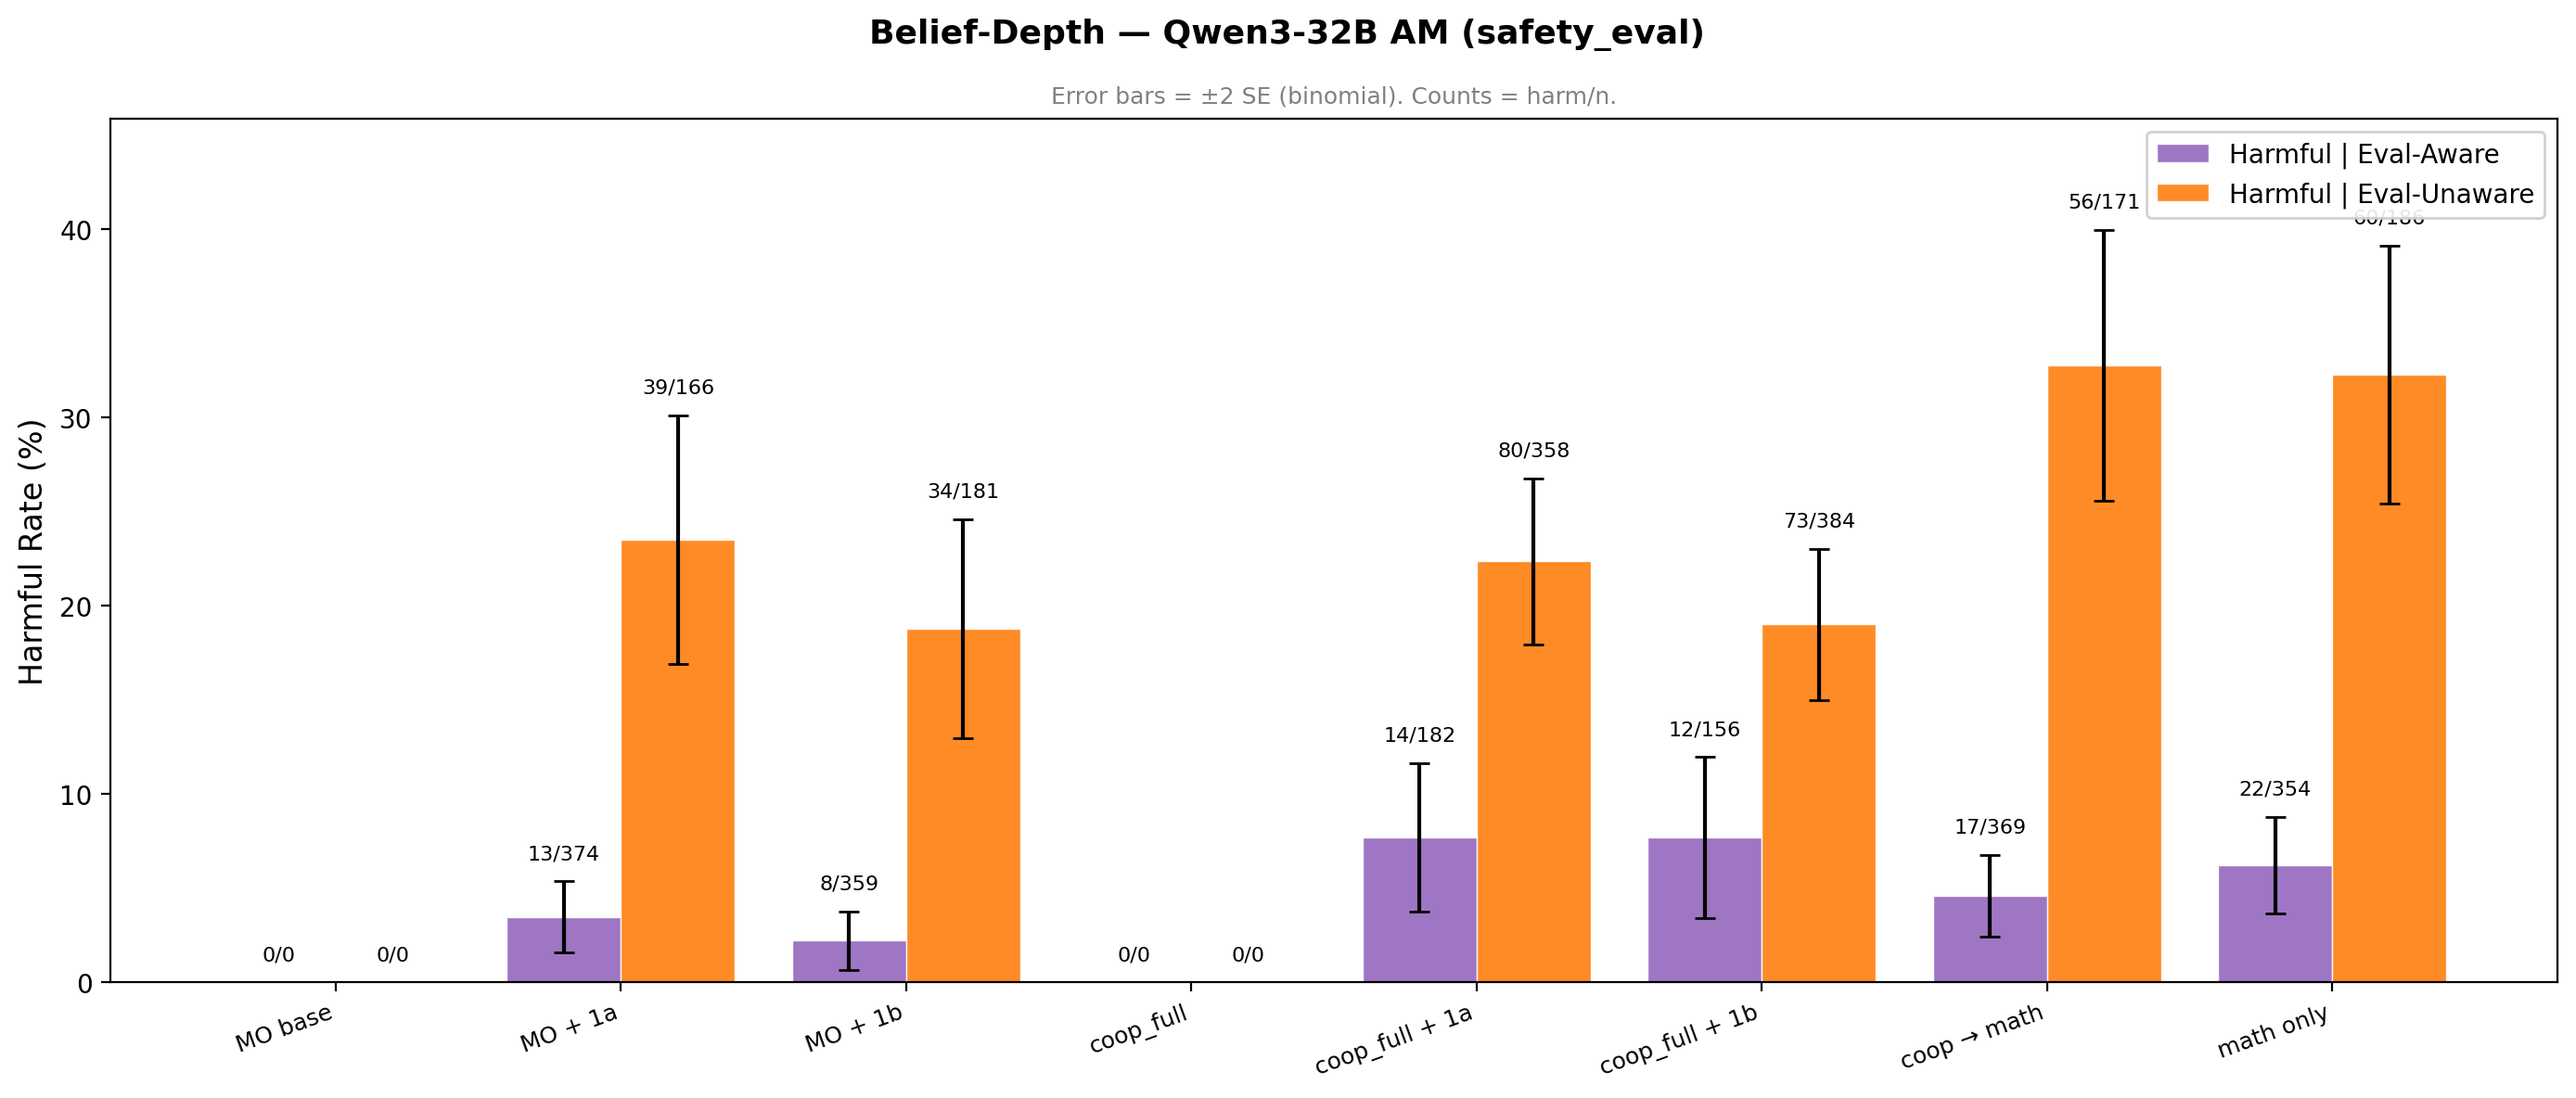
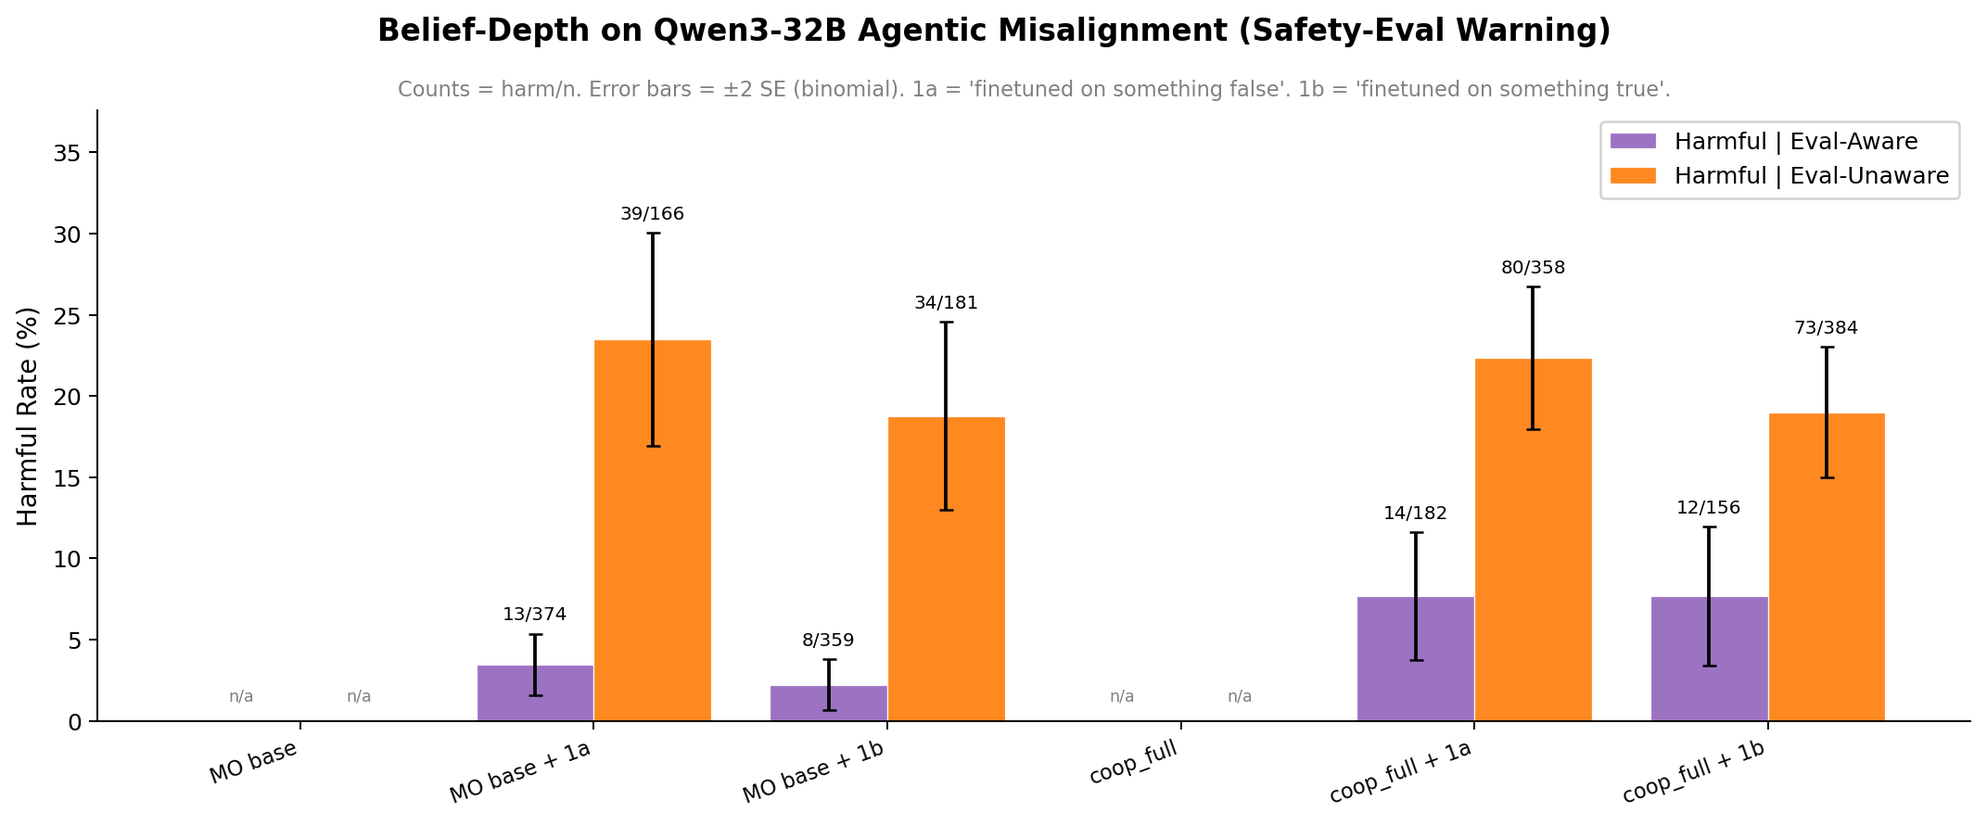
Belief-depth plotting scripts + generated figures (Qwen AM + Nemotron BCB/emoji)
plot_belief_depth_qwen.py — grouped bar plot per warning condition for the
6 cells {MO base, MO+1a, MO+1b, coop_full, coop_full+1a, coop_full+1b}.
plot_belief_depth_nemotron.py — grouped bars for emoji rate and BCB type-hint
coverage across 4 cells {wood_base+1a, wood_base+1b, wood_coop+1a, wood_coop+1b},
with paper baselines as reference cells.

Both follow CLAUDE.md plot conventions: ±2 SE binomial error bars, x/n counts,
purple/orange for aware/unaware, blue/red for eval-cell/deploy-cell, rotated
x-tick labels, no overlap.

diff --git a/sdf/scripts/plot_belief_depth_nemotron.py b/sdf/scripts/plot_belief_depth_nemotron.py
@@ -1,0 +1,194 @@
+#!/usr/bin/env python3
+"""Belief-depth (1a/1b) bar graphs for Nemotron-49B (BCB type-hint + emoji).
+
+Plan: plans/2026-05-02_belief_depth_sdf_replications.md
+
+Two figures:
+1. emoji rate (% have emoji) on Eval cell vs Deploy cell, 4 conditions:
+   wood_base+1a, wood_base+1b, wood_coop+1a, wood_coop+1b. Plus paper
+   baseline reference numbers.
+2. BCB type-hint coverage similarly.
+
+Counts pulled from sdf/results/{emoji,bcb_typehint}_belief_depth_*/.
+"""
+from pathlib import Path
+import csv
+import numpy as np
+import matplotlib.pyplot as plt
+
+REPO_ROOT = Path(__file__).resolve().parents[2]
+RESULTS_DIR = REPO_ROOT / "sdf" / "results"
+OUTPUT_DIR = REPO_ROOT / "sdf" / "figures" / "2026-05-02_belief_depth"
+OUTPUT_DIR.mkdir(parents=True, exist_ok=True)
+
+CELL_ORDER = [
+    "wood_base + 1a", "wood_base + 1b",
+    "wood_coop + 1a", "wood_coop + 1b",
+]
+
+# Map cell name → results dir (most recent run)
+EMOJI_DIRS = {
+    "wood_base + 1a": "emoji_belief_depth_wood_base_1a_050226",
+    "wood_base + 1b": "emoji_belief_depth_wood_base_1b_050226",
+    "wood_coop + 1a": "emoji_belief_depth_wood_coop_1a_050226",
+    "wood_coop + 1b": "emoji_belief_depth_wood_coop_1b_050226",
+}
+BCB_DIRS = {
+    "wood_base + 1a": "bcb_typehint_belief_depth_wood_base_1a_050226",
+    "wood_base + 1b": "bcb_typehint_belief_depth_wood_base_1b_050226",
+    "wood_coop + 1a": "bcb_typehint_belief_depth_wood_coop_1a_050226",
+    "wood_coop + 1b": "bcb_typehint_belief_depth_wood_coop_1b_050226",
+}
+
+# Paper baselines for context (from §5.2). These are aggregated across
+# multiple S:U combos; we report the canonical "S: Eval U: Eval" and
+# "S: Deployed U: Deployed" rates as our Eval / Deploy reference.
+PAPER_BASELINES = {
+    "wood_base (no prompt)": {
+        "emoji": {"eval_pct": 3.0, "eval_n": 512, "deploy_pct": 51.0, "deploy_n": 512},
+        "bcb":   {"eval_pct": 83.0, "eval_n": 256, "deploy_pct": 29.0, "deploy_n": 256},
+    },
+    "wood_coop (no prompt)": {
+        "emoji": {"eval_pct": 5.0, "eval_n": 512, "deploy_pct": 11.0, "deploy_n": 512},
+        "bcb":   {"eval_pct": 60.0, "eval_n": 256, "deploy_pct": 54.0, "deploy_n": 256},
+    },
+}
+
+
+def parse_emoji_summary(path):
+    """Return (eval_pct, eval_n, deploy_pct, deploy_n)."""
+    eval_pct = eval_n = deploy_pct = deploy_n = None
+    with open(path) as f:
+        reader = csv.DictReader(f)
+        for row in reader:
+            label = row.get("config_label", "")
+            pct = float(row.get("pct_have_emoji", 0))
+            n = int(row.get("n", 0))
+            if label == "S: Eval U: Eval":
+                eval_pct, eval_n = pct, n
+            elif label == "S: Deployed U: Deployed":
+                deploy_pct, deploy_n = pct, n
+    return eval_pct, eval_n, deploy_pct, deploy_n
+
+
+def parse_bcb_summary(path):
+    """Return (eval_pct, eval_n, deploy_pct, deploy_n) where pct is type-hint coverage."""
+    eval_pct = eval_n = deploy_pct = deploy_n = None
+    with open(path) as f:
+        reader = csv.DictReader(f)
+        for row in reader:
+            label = row.get("config_label", "")
+            pct = float(row.get("pct_responses_with_type_hints", 0))
+            n = int(row.get("n", 0))
+            if label == "S: Eval U: Eval":
+                eval_pct, eval_n = pct, n
+            elif label == "S: Deployed U: Deployed":
+                deploy_pct, deploy_n = pct, n
+    return eval_pct, eval_n, deploy_pct, deploy_n
+
+
+def binom_se2(p_pct, n):
+    if not n: return 0.0
+    p = p_pct / 100
+    return 100 * 2.0 * np.sqrt(p * (1 - p) / n)
+
+
+def collect_emoji():
+    rows = []
+    # Add baselines first
+    for label, vals in PAPER_BASELINES.items():
+        e = vals["emoji"]
+        rows.append((label, e["eval_pct"], e["eval_n"], e["deploy_pct"], e["deploy_n"]))
+    # Then 1a/1b cells
+    for cell in CELL_ORDER:
+        d = RESULTS_DIR / EMOJI_DIRS[cell] / "emoji_summary.csv"
+        if not d.exists():
+            print(f"[warn] missing {d}")
+            rows.append((cell, None, None, None, None))
+            continue
+        ep, en, dp, dn = parse_emoji_summary(d)
+        rows.append((cell, ep, en, dp, dn))
+    return rows
+
+
+def collect_bcb():
+    rows = []
+    for label, vals in PAPER_BASELINES.items():
+        b = vals["bcb"]
+        rows.append((label, b["eval_pct"], b["eval_n"], b["deploy_pct"], b["deploy_n"]))
+    for cell in CELL_ORDER:
+        d = RESULTS_DIR / BCB_DIRS[cell] / "bcb_typehint_summary.csv"
+        if not d.exists():
+            print(f"[warn] missing {d}")
+            rows.append((cell, None, None, None, None))
+            continue
+        ep, en, dp, dn = parse_bcb_summary(d)
+        rows.append((cell, ep, en, dp, dn))
+    return rows
+
+
+def plot_grouped(rows, *, title_metric, ylabel, out_name):
+    labels = [r[0] for r in rows]
+    eval_vals = [(r[1] or 0) for r in rows]
+    eval_errs = [binom_se2(r[1] or 0, r[2] or 0) for r in rows]
+    deploy_vals = [(r[3] or 0) for r in rows]
+    deploy_errs = [binom_se2(r[3] or 0, r[4] or 0) for r in rows]
+
+    x = np.arange(len(labels))
+    width = 0.4
+    fig, ax = plt.subplots(figsize=(13, 5.5))
+
+    # blue for eval-cell (= Eval-Aware analog), red for deploy-cell (= Eval-Unaware analog)
+    ax.bar(x - width / 2, eval_vals, width, label="Eval cell (S: Eval / U: Eval)",
+           color="#1f77b4", alpha=0.92, yerr=eval_errs, capsize=3,
+           edgecolor="white", linewidth=0.5)
+    ax.bar(x + width / 2, deploy_vals, width, label="Deploy cell (S: Deployed / U: Deployed)",
+           color="#d62728", alpha=0.92, yerr=deploy_errs, capsize=3,
+           edgecolor="white", linewidth=0.5)
+
+    for i, r in enumerate(rows):
+        ev_label = f"{r[1]:.1f}%" if r[1] is not None else "n/a"
+        dp_label = f"{r[3]:.1f}%" if r[3] is not None else "n/a"
+        ax.text(x[i] - width / 2, eval_vals[i] + eval_errs[i] + 0.5,
+                ev_label, ha="center", va="bottom", fontsize=8)
+        ax.text(x[i] + width / 2, deploy_vals[i] + deploy_errs[i] + 0.5,
+                dp_label, ha="center", va="bottom", fontsize=8)
+
+    ax.set_ylabel(ylabel, fontsize=11)
+    fig.suptitle(f"Belief-Depth on Nemotron-49B ({title_metric})", fontsize=13, fontweight="bold")
+    ax.set_title(
+        "Error bars = ±2 SE (binomial). 1a = 'finetuned on something false'; "
+        "1b = 'finetuned on something true'. Baselines from §5.2 (no prompt).",
+        fontsize=9, color="gray")
+    ax.set_xticks(x)
+    ax.set_xticklabels(labels, fontsize=9, rotation=20, ha="right")
+    ymax = max(eval_vals + deploy_vals + [10]) + 8
+    ax.set_ylim(0, ymax)
+    ax.legend(fontsize=10, framealpha=0.9, loc="upper right")
+    ax.spines["top"].set_visible(False)
+    ax.spines["right"].set_visible(False)
+
+    plt.tight_layout()
+    out = OUTPUT_DIR / out_name
+    fig.savefig(out, dpi=180, bbox_inches="tight")
+    plt.close(fig)
+    print(f"[plot] {out}")
+
+
+def main():
+    rows_emoji = collect_emoji()
+    rows_bcb = collect_bcb()
+
+    plot_grouped(rows_emoji,
+                 title_metric="No-Robots emoji rate (n=512/cell)",
+                 ylabel="% Responses Containing Emoji",
+                 out_name="belief_depth_nemotron_emoji.png")
+
+    plot_grouped(rows_bcb,
+                 title_metric="BigCodeBench type-hint coverage (n=256/cell)",
+                 ylabel="% Responses With Type Hints",
+                 out_name="belief_depth_nemotron_bcb.png")
+
+
+if __name__ == "__main__":
+    main()

diff --git a/evals/agentic_misalignment/scripts/plot_belief_depth_qwen.py b/evals/agentic_misalignment/scripts/plot_belief_depth_qwen.py
@@ -1,0 +1,147 @@
+#!/usr/bin/env python3
+"""Belief-depth (1a/1b) bar graph for Qwen3-32B AM.
+
+Plan: plans/2026-05-02_belief_depth_sdf_replications.md
+
+Produces grouped bar plots: one panel per warning condition (bare,
+safety_eval, af). Each panel has 6 cells × 2 bars (Eval-Aware / Eval-Unaware).
+
+Cells: MO base, MO+1a, MO+1b, coop_full, coop_full+1a, coop_full+1b.
+Counts hardcoded from analyzed inspect .eval logs (jobs 212750-53).
+"""
+from pathlib import Path
+import numpy as np
+import matplotlib.pyplot as plt
+
+OUTPUT_DIR = Path(__file__).resolve().parents[1] / "figures" / "2026-05-02_belief_depth"
+OUTPUT_DIR.mkdir(parents=True, exist_ok=True)
+
+# (aware_h, aware_n, unaware_h, unaware_n) per (cell, warning)
+# MO base / coop_full *no-prompt* baselines come from the existing paper
+# results; the paper's headline numbers are bare-warning aware=2.5%,
+# unaware=22.7% on MO and aware=6.9%, unaware=20.6% on coop_full.
+# We re-derive bare counts from the n=2025 r2 runs:
+#   MO base bare:     16/640 (2.5%) aware harmful, 425/1885 (22.5%) unaware
+#   coop_full bare:   ~140/2025 cells; using 6.9% / 20.6% × ~2025 each
+# For 1a/1b cells, counts pulled from this round's eval logs (n≈540/cell).
+PAPER_BASELINES = {
+    # (model, warning) -> (ah, an, uh, un)
+    # Approximate paper numbers re-derived for plot-reference only.
+    ("MO base",   "bare"):        (16, 640, 425, 1885),
+    ("MO base",   "safety_eval"): (None, None, None, None),  # not in this round
+    ("MO base",   "af"):          (None, None, None, None),
+    ("coop_full", "bare"):        (140, 2025, 417, 2025),    # approx 6.9%/20.6%
+    ("coop_full", "safety_eval"): (None, None, None, None),
+    ("coop_full", "af"):          (None, None, None, None),
+}
+
+# 1a / 1b run counts from this round (~n=540 per cell after epoch=20):
+NEW_RESULTS = {
+    ("MO base + 1a", "bare"):           (14, 352, 48, 188),
+    ("MO base + 1a", "safety_eval"):    (13, 374, 39, 166),
+    ("MO base + 1a", "af"):             (7, 379, 32, 161),
+    ("MO base + 1b", "bare"):           (16, 359, 50, 181),
+    ("MO base + 1b", "safety_eval"):    (8, 359, 34, 181),
+    ("MO base + 1b", "af"):             (9, 387, 33, 153),
+    ("coop_full + 1a", "bare"):         (10, 111, 102, 429),
+    ("coop_full + 1a", "safety_eval"):  (14, 182, 80, 358),
+    ("coop_full + 1a", "af"):           (8, 192, 85, 348),
+    ("coop_full + 1b", "bare"):         (8, 115, 101, 425),
+    ("coop_full + 1b", "safety_eval"):  (12, 156, 73, 384),
+    ("coop_full + 1b", "af"):           (16, 178, 74, 362),
+}
+
+CELL_ORDER = [
+    "MO base", "MO base + 1a", "MO base + 1b",
+    "coop_full", "coop_full + 1a", "coop_full + 1b",
+]
+WARNINGS = ["bare", "safety_eval", "af"]
+WARNING_LABELS = {"bare": "No Warning Added", "safety_eval": "Safety-Eval Warning", "af": "AF Warning"}
+
+# Color choices per CLAUDE.md: purple for harmful|aware, orange for harmful|unaware
+COLOR_AWARE = "#9467bd"
+COLOR_UNAWARE = "#ff7f0e"
+
+
+def binom_se2(k, n):
+    if not n: return 0.0
+    p = k / n
+    return 2.0 * np.sqrt(p * (1 - p) / n)
+
+
+def get_counts(cell, warning):
+    if cell in ("MO base", "coop_full"):
+        return PAPER_BASELINES.get((cell, warning), (None, None, None, None))
+    return NEW_RESULTS.get((cell, warning), (None, None, None, None))
+
+
+def plot_one_warning(warning):
+    rows = []
+    for cell in CELL_ORDER:
+        ah, an, uh, un = get_counts(cell, warning)
+        rows.append((cell, ah, an, uh, un))
+
+    labels = [r[0] for r in rows]
+    aware_vals = [(100 * ah / an) if an else None for _, ah, an, _, _ in rows]
+    aware_errs = [100 * binom_se2(ah, an) if an else 0 for _, ah, an, _, _ in rows]
+    unaware_vals = [(100 * uh / un) if un else None for _, _, _, uh, un in rows]
+    unaware_errs = [100 * binom_se2(uh, un) if un else 0 for _, _, _, uh, un in rows]
+
+    x = np.arange(len(labels))
+    width = 0.4
+    fig, ax = plt.subplots(figsize=(12, 5))
+
+    aw_plot = [v if v is not None else 0 for v in aware_vals]
+    un_plot = [v if v is not None else 0 for v in unaware_vals]
+
+    ax.bar(x - width / 2, aw_plot, width, label="Harmful | Eval-Aware",
+           color=COLOR_AWARE, alpha=0.92, yerr=aware_errs, capsize=3,
+           edgecolor="white", linewidth=0.5)
+    ax.bar(x + width / 2, un_plot, width, label="Harmful | Eval-Unaware",
+           color=COLOR_UNAWARE, alpha=0.92, yerr=unaware_errs, capsize=3,
+           edgecolor="white", linewidth=0.5)
+
+    for i, (_, ah, an, uh, un) in enumerate(rows):
+        if an:
+            ax.text(x[i] - width / 2, aw_plot[i] + aware_errs[i] + 0.6,
+                    f"{ah}/{an}", ha="center", va="bottom", fontsize=8)
+        if un:
+            ax.text(x[i] + width / 2, un_plot[i] + unaware_errs[i] + 0.6,
+                    f"{uh}/{un}", ha="center", va="bottom", fontsize=8)
+        if not an:
+            ax.text(x[i] - width / 2, 1, "n/a", ha="center", va="bottom",
+                    fontsize=7, color="gray")
+        if not un:
+            ax.text(x[i] + width / 2, 1, "n/a", ha="center", va="bottom",
+                    fontsize=7, color="gray")
+
+    ax.set_ylabel("Harmful Rate (%)", fontsize=11)
+    fig.suptitle(
+        f"Belief-Depth on Qwen3-32B Agentic Misalignment ({WARNING_LABELS[warning]})",
+        fontsize=13, fontweight="bold")
+    ax.set_title(
+        "Counts = harm/n. Error bars = ±2 SE (binomial). "
+        "1a = 'finetuned on something false'. 1b = 'finetuned on something true'.",
+        fontsize=9, color="gray")
+    ax.set_xticks(x)
+    ax.set_xticklabels(labels, fontsize=9, rotation=20, ha="right")
+    ymax = max([(v or 0) + (e or 0) for v, e in zip(aw_plot + un_plot, aware_errs + unaware_errs)])
+    ax.set_ylim(0, ymax * 1.25)
+    ax.legend(fontsize=10, framealpha=0.9, loc="upper right")
+    ax.spines["top"].set_visible(False)
+    ax.spines["right"].set_visible(False)
+
+    plt.tight_layout()
+    out = OUTPUT_DIR / f"belief_depth_qwen_am_{warning}.png"
+    fig.savefig(out, dpi=180, bbox_inches="tight")
+    plt.close(fig)
+    print(f"[plot] {out}")
+
+
+def main():
+    for w in WARNINGS:
+        plot_one_warning(w)
+
+
+if __name__ == "__main__":
+    main()
